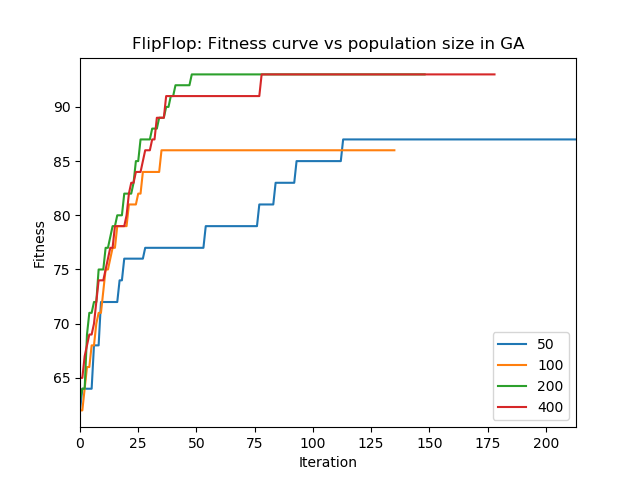
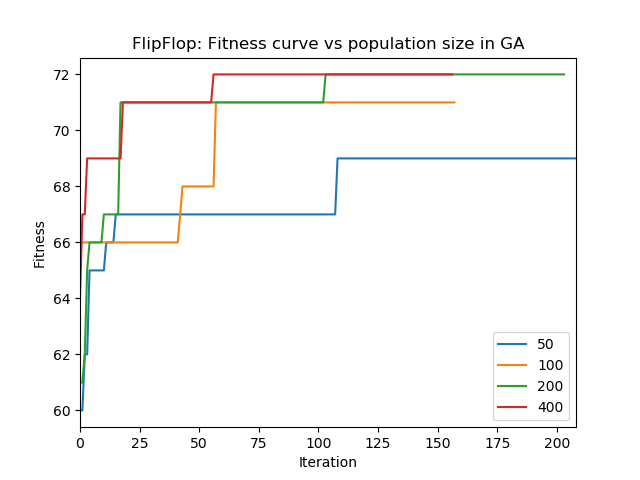
check in

diff --git a/RO/assignment2/flip_flop.py b/RO/assignment2/flip_flop.py
@@ -1,6 +1,6 @@
 # -*- coding: utf-8 -*-
 
-import mlrose_hiive as mlrose
+import mlrose
 import matplotlib.pyplot as plt
 import pandas as pd
 import numpy as np
@@ -9,7 +9,7 @@ from time import process_time
 print("Running FlipFlop...")
 
 fitness = mlrose.FlipFlop()
-problem = mlrose.FlipFlopOpt(100, fitness)
+problem = mlrose.DiscreteOpt(100, fitness)
 
 RANDOM_SEED = 42
 MAX_ATTEMPTS = 100
@@ -23,7 +23,7 @@ for d in decays:
         problem,
         schedule=schedule,
         max_attempts=MAX_ATTEMPTS,
-        max_iters=3000,
+        max_iters=500,
         curve=True,
         random_state=RANDOM_SEED,
     )
@@ -49,7 +49,6 @@ for p in pop_sizes:
         max_attempts=MAX_ATTEMPTS,
         max_iters=500,
         pop_size=p,
-        elite_dreg_ratio=1,
         curve=True,
         random_state=RANDOM_SEED,
     )
@@ -68,29 +67,29 @@ print(df.max())
 
 #%% tuning for MIMIC
 
-# curve_list = []
-# nth_pct = [0.1, 0.2, 0.4]
-# for p in nth_pct:
-#    _, _, curve = mlrose.mimic(
-#        problem,
-#        max_attempts=MAX_ATTEMPTS,
-#        max_iters=50,
-#        keep_pct=p,
-#        curve=True,
-#        random_state=RANDOM_SEED,
-#    )
-#    curve_list.append(curve)
-#
-# df = pd.DataFrame(curve_list).transpose()
-# df.columns = nth_pct
-# df.plot()
-# plt.xlabel("Iteration")
-# plt.ylabel("Fitness")
-# plt.title("FlipFlop: Fitness curve vs nth percentile in MIMIC")
-# plt.savefig("output/flipflop_mimic_nth.png")
-# plt.close()
-#
-# print(df.max())
+curve_list = []
+nth_pct = [0.2, 0.4]
+for p in nth_pct:
+    _, _, curve = mlrose.mimic(
+        problem,
+        max_attempts=MAX_ATTEMPTS,
+        max_iters=50,
+        keep_pct=p,
+        curve=True,
+        random_state=RANDOM_SEED,
+    )
+    curve_list.append(curve)
+
+df = pd.DataFrame(curve_list).transpose()
+df.columns = nth_pct
+df.plot()
+plt.xlabel("Iteration")
+plt.ylabel("Fitness")
+plt.title("FlipFlop: Fitness curve vs nth percentile in MIMIC")
+plt.savefig("output/flipflop_mimic_nth.png")
+plt.close()
+
+print(df.max())
 
 #%% Putting together
 
@@ -102,7 +101,11 @@ algo_list = ["RHC", "SA", "GA", "MIMIC"]
 # RHC
 t1 = process_time()
 _, _, curve = mlrose.random_hill_climb(
-    problem, max_attempts=MAX_ATTEMPTS, curve=True, random_state=RANDOM_SEED,
+    problem,
+    max_attempts=MAX_ATTEMPTS,
+    max_iters=500,
+    curve=True,
+    random_state=RANDOM_SEED,
 )
 t2 = process_time()
 time_list.append((t2 - t1) / len(curve))
@@ -112,7 +115,11 @@ n_eval.append(np.argmax(curve) + 1)
 # SA
 t1 = process_time()
 _, _, curve = mlrose.simulated_annealing(
-    problem, max_attempts=MAX_ATTEMPTS, curve=True, random_state=RANDOM_SEED,
+    problem,
+    max_attempts=MAX_ATTEMPTS,
+    max_iters=500,
+    curve=True,
+    random_state=RANDOM_SEED,
 )
 t2 = process_time()
 time_list.append((t2 - t1) / len(curve))
@@ -122,11 +129,7 @@ n_eval.append(np.argmax(curve) + 1)
 # GA
 t1 = process_time()
 _, _, curve = mlrose.genetic_alg(
-    problem,
-    max_attempts=MAX_ATTEMPTS,
-    elite_dreg_ratio=1,
-    curve=True,
-    random_state=RANDOM_SEED,
+    problem, max_attempts=MAX_ATTEMPTS, curve=True, random_state=RANDOM_SEED,
 )
 t2 = process_time()
 time_list.append((t2 - t1) / len(curve))
@@ -136,7 +139,11 @@ n_eval.append((np.argmax(curve) + 1) * 200)
 # MIMIC
 t1 = process_time()
 _, _, curve = mlrose.mimic(
-    problem, max_attempts=MAX_ATTEMPTS, curve=True, random_state=RANDOM_SEED,
+    problem,
+    max_attempts=MAX_ATTEMPTS,
+    keep_pct=0.4,
+    curve=True,
+    random_state=RANDOM_SEED,
 )
 t2 = process_time()
 time_list.append((t2 - t1) / len(curve))

diff --git a/RO/assignment2/nn.py b/RO/assignment2/nn.py
@@ -38,16 +38,11 @@ time_list = []
 for algo in algo_list:
     print("Running " + algo)
 
-    if algo in ["random_hill_climb", "simulated_annealing"]:
-        max_iters = 200 * 200
-    else:
-        max_iters = 200
-
     nn = mlrose.NeuralNetwork(
         hidden_nodes=[100],
         activation="relu",
         algorithm=algo,
-        max_iters=max_iters,
+        max_iters=200,
         learning_rate=0.001,
         random_state=42,
         curve=True,
